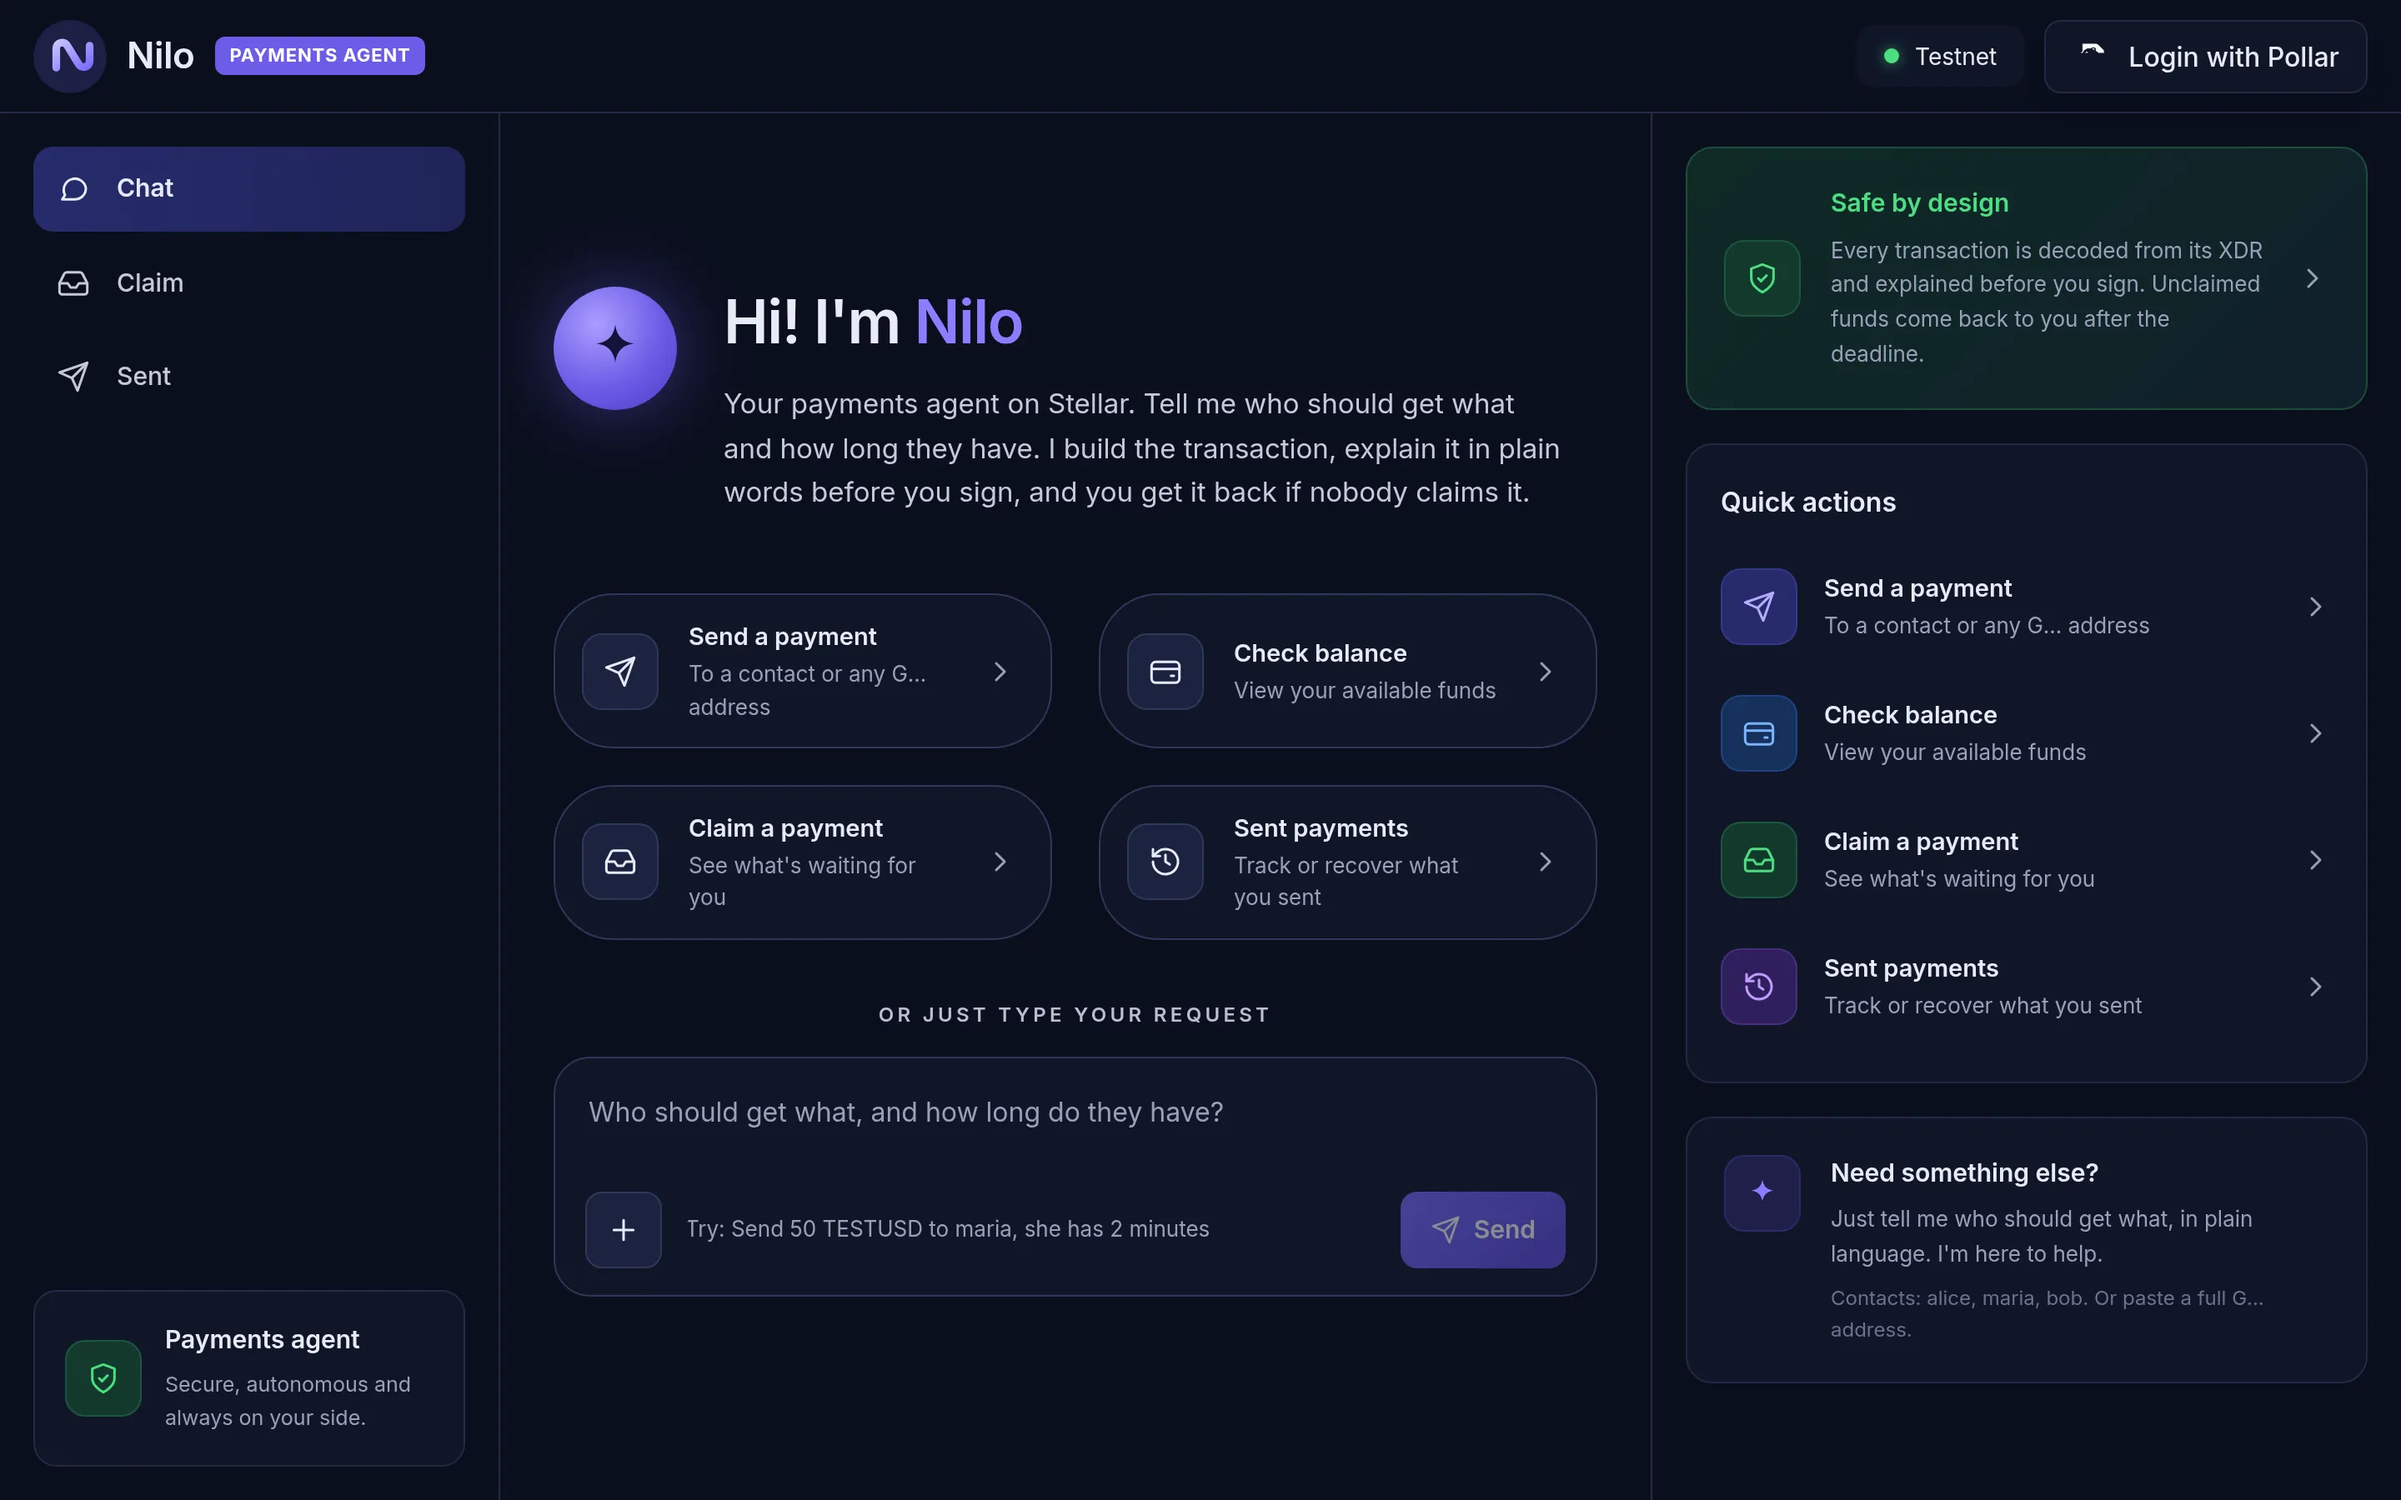
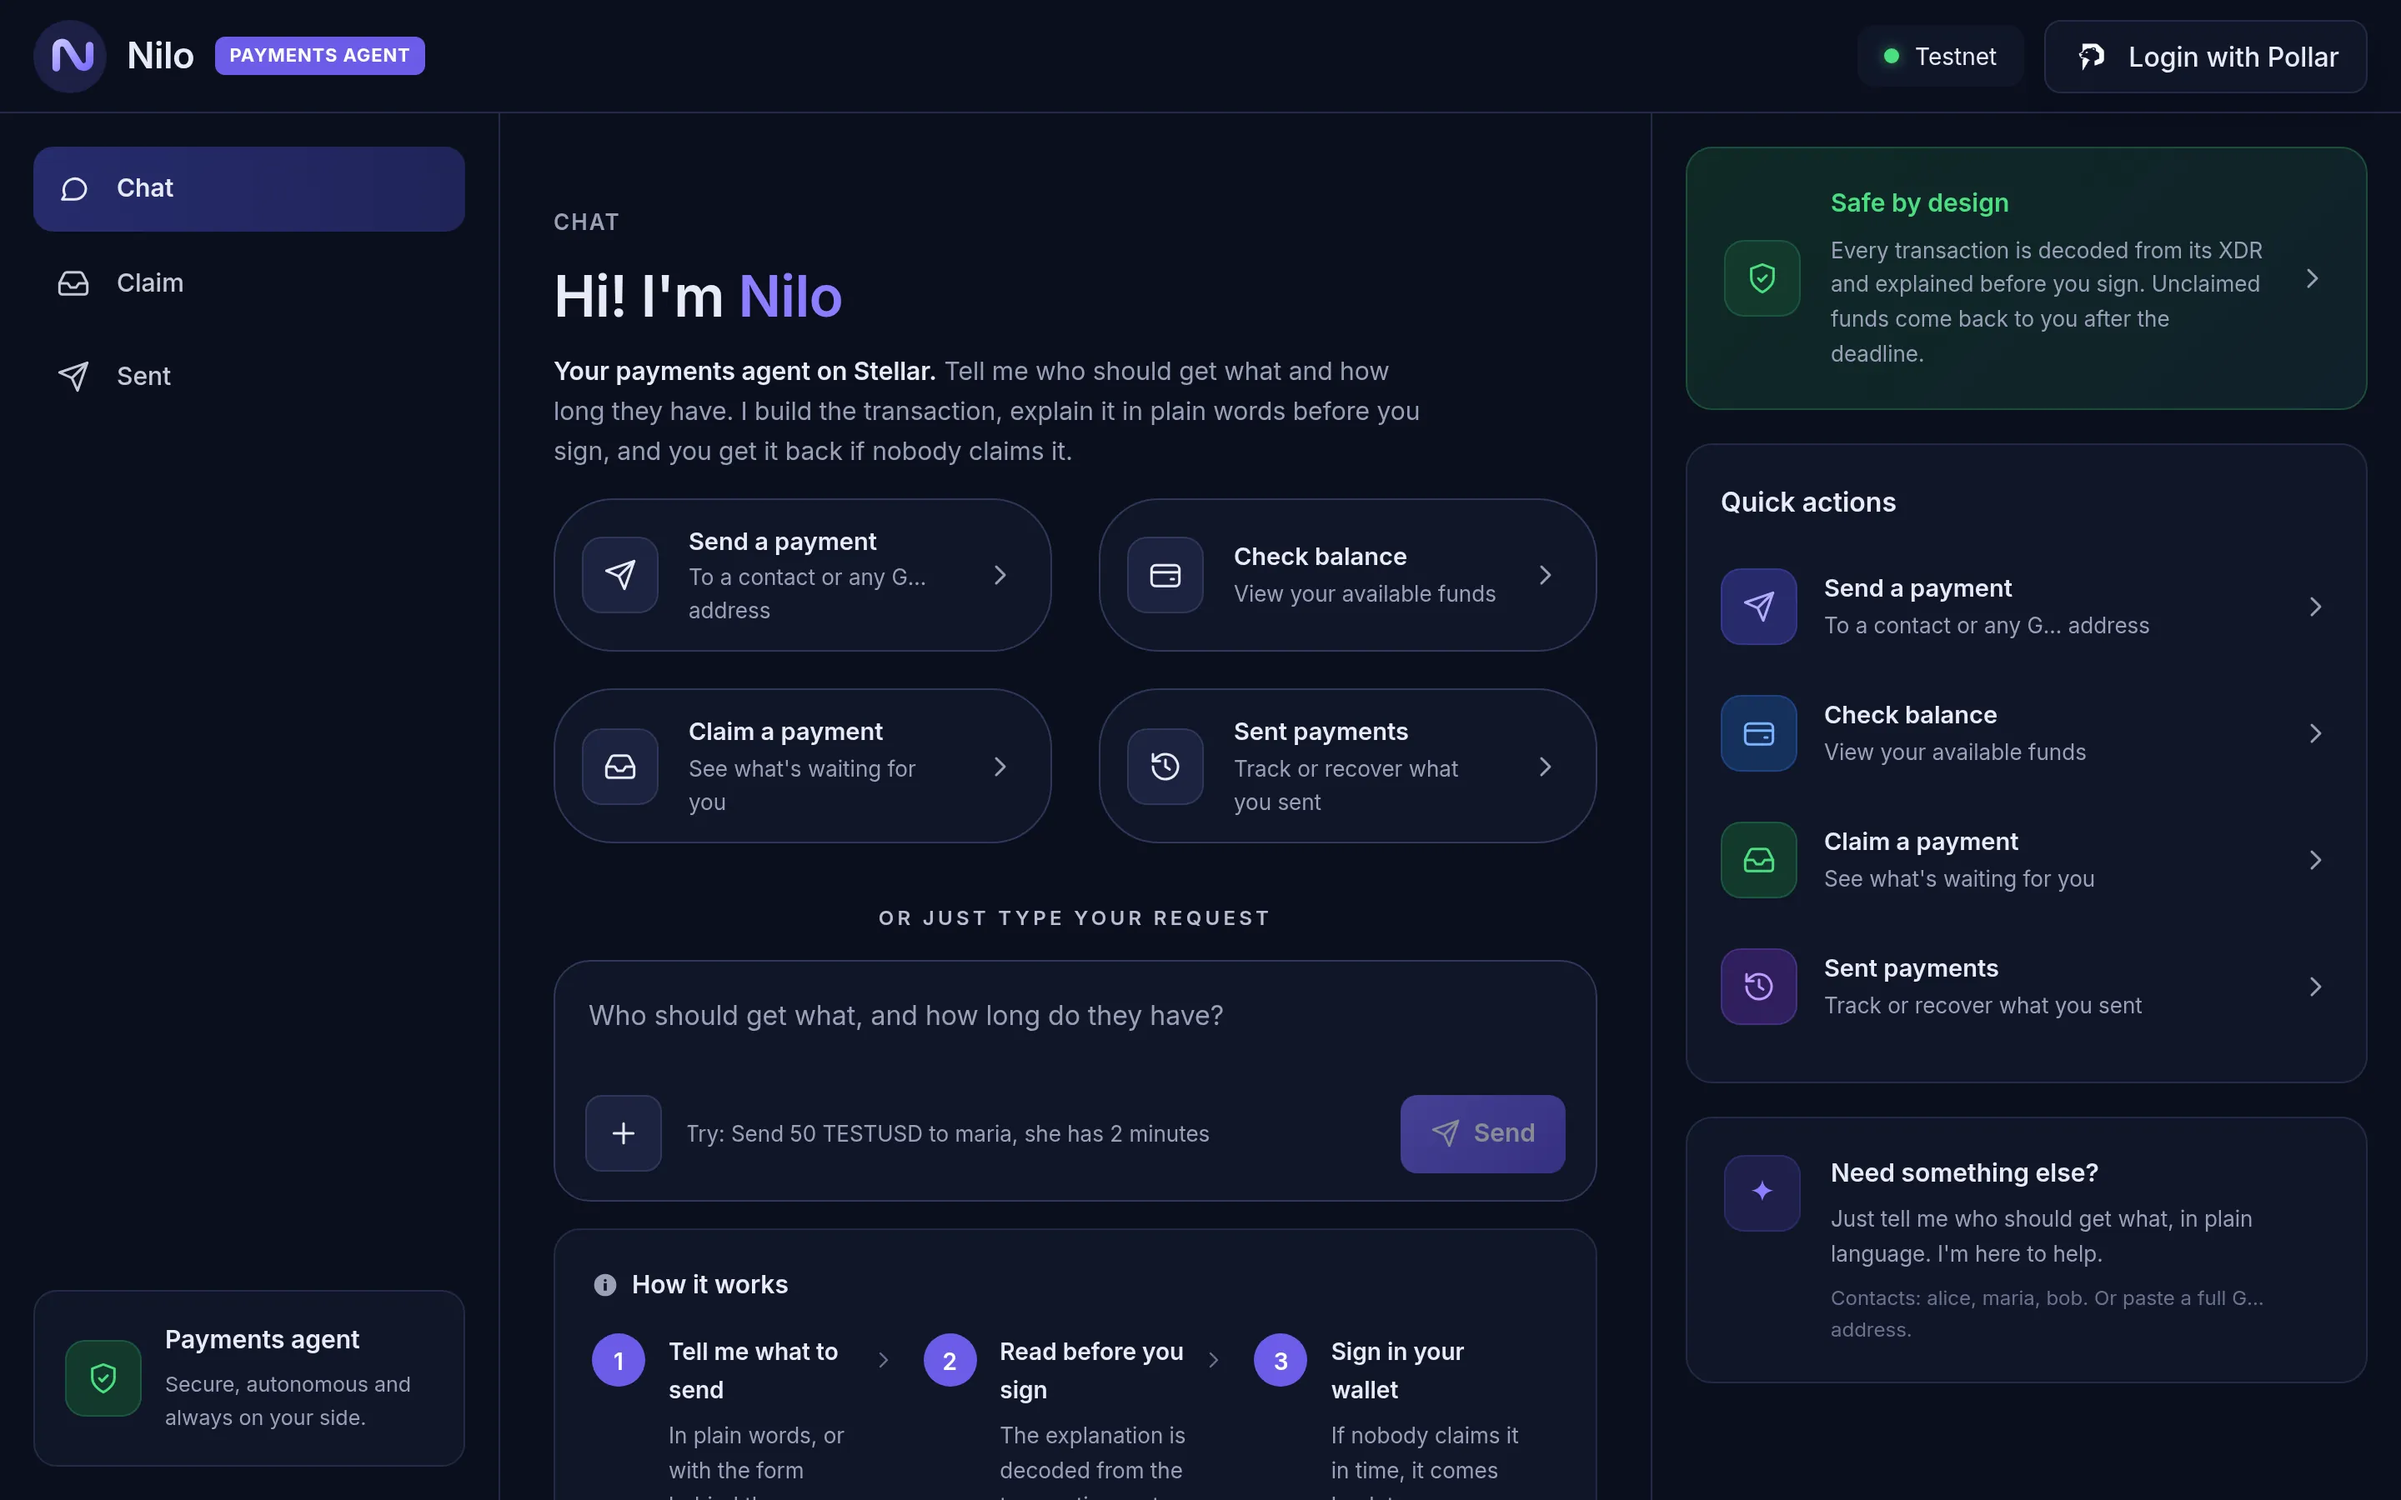
Restyle the Chat page like Claim and Sent
The hero avatar gives way to the shared page head (eyebrow, accented
title, bold lead line, Connected chip when a wallet is in), the column
widens to match, and a "How it works" strip shows before the first
message. README screenshots refreshed to match.

diff --git a/apps/web/src/pages/Send.tsx b/apps/web/src/pages/Send.tsx
@@ -7,11 +7,12 @@ import {
 } from "@nilo/core";
 import { type FormEvent, type KeyboardEvent, useEffect, useMemo, useRef, useState } from "react";
 import { Link, useLocation, useNavigate } from "react-router-dom";
-import { ChevronIcon, CloseIcon, PlusIcon, SendIcon, SparkleIcon } from "../components/icons";
+import { HowItWorks } from "../components/HowItWorks";
+import { ChevronIcon, CloseIcon, PlusIcon, SendIcon, WalletIcon } from "../components/icons";
 import { type ChatActionState, QUICK_ACTIONS, useQuickAction } from "../components/Layout";
 import { type Prepared, SignPanel } from "../components/SignPanel";
 import { asSnapshot, config, loadAccount } from "../stellar";
-import { formatLocal } from "../time";
+import { formatLocal, short } from "../time";
 import { useWallet } from "../wallet";
 
 interface ChatMessage {
@@ -25,6 +26,12 @@ type ExtractResponse =
   | { status: "error"; message: string };
 
 const EXAMPLE = "Send 50 TESTUSD to maria, she has 2 minutes";
+
+const STEPS = [
+  { title: "Tell me what to send", text: "In plain words, or with the form behind the + button." },
+  { title: "Read before you sign", text: "The explanation is decoded from the transaction, not written by the AI." },
+  { title: "Sign in your wallet", text: "If nobody claims it in time, it comes back to you." },
+];
 
 async function validateFresh(intent: SendIntent, address: string): Promise<ResolvedIntent> {
   const account = await loadAccount(address);
@@ -166,23 +173,28 @@ export function SendPage() {
   const fresh = messages.length === 0 && !pending;
 
   return (
-    <div className="stack chat-page">
+    <div className="stack chat-page page-wide">
       {fresh && (
         <>
-          <section className="hero">
-            <span className="hero-avatar">
-              <SparkleIcon width={34} height={34} />
-            </span>
-            <div>
-              <h1>
-                Hi! I'm <span className="accent">Nilo</span>
-              </h1>
-              <p>
-                Your payments agent on Stellar. Tell me who should get what and how long they have. I build the
-                transaction, explain it in plain words before you sign, and you get it back if nobody claims it.
-              </p>
-            </div>
-          </section>
+          <header className="page-head">
+            <span className="eyebrow">Chat</span>
+            <h1>
+              Hi! I'm <span className="accent-word">Nilo</span>
+            </h1>
+            <p className="muted">
+              <strong className="lead">Your payments agent on Stellar.</strong> Tell me who should get what and how long
+              they have. I build the transaction, explain it in plain words before you sign, and you get it back if
+              nobody claims it.
+            </p>
+            {address && (
+              <div className="row">
+                <span className="connected">
+                  <WalletIcon width={16} height={16} /> Connected
+                </span>
+                <span className="muted small">as {short(address)}</span>
+              </div>
+            )}
+          </header>
           <div className="action-grid">
             {QUICK_ACTIONS.map((a) => (
               <button key={a.title} className="action-card" onClick={() => runQuick(a)}>
@@ -256,6 +268,8 @@ export function SendPage() {
           <IntentForm disabled={!!pending} onSubmit={startReview} />
         </div>
       )}
+
+      {fresh && <HowItWorks steps={STEPS} />}
 
       {/* The rail lists contacts on wide screens; this copy shows when it is hidden. */}
       <p className="muted small contacts-inline">

diff --git a/apps/web/src/styles.css b/apps/web/src/styles.css
@@ -141,17 +141,8 @@ a.rail-card:hover { border-color: #2a6a50; }
 
 /* ---------- Chat page ---------- */
 .chat-page { gap: 28px; }
-.hero { display: flex; gap: 28px; align-items: flex-start; padding: 64px 0 32px; max-width: 610px; }
-.hero-avatar {
-  flex: none; width: 74px; height: 74px; border-radius: 50%; display: inline-flex; align-items: center; justify-content: center;
-  background: radial-gradient(circle at 35% 30%, #a99dff 0%, #6c5ce7 55%, #4a3bc4 100%); color: #12133a;
-  box-shadow: 0 0 40px rgba(108, 92, 231, 0.45);
-}
-.hero h1 { font-size: 36px; font-weight: 600; letter-spacing: -0.02em; line-height: 1.2; }
-.hero .accent { color: var(--accent-2); }
-.hero p { margin: 14px 0 0; color: #c6c9dc; font-size: 16.5px; line-height: 1.6; }
 
-.action-grid { display: grid; grid-template-columns: repeat(2, minmax(0, 1fr)); gap: 22px 28px; max-width: 745px; }
+.action-grid { display: grid; grid-template-columns: repeat(2, minmax(0, 1fr)); gap: 22px 28px; }
 .action-card {
   display: flex; align-items: center; gap: 18px; padding: 14px 20px 14px 16px; text-align: left;
   border-radius: 36px; border: 1px solid var(--border-strong); background: var(--surface);
@@ -255,12 +246,13 @@ input:focus, select:focus { outline: none; border-color: var(--accent); }
 /* ---------- Page head extras ---------- */
 .eyebrow { font-size: 13px; font-weight: 600; letter-spacing: 0.08em; text-transform: uppercase; color: var(--muted); }
 .page-head h1 { font-size: 34px; }
+.page-head .row { margin-top: 4px; }
 .accent-word { color: var(--accent-2); }
 .page-head .lead { color: var(--text); font-weight: 600; }
 .page-head p { line-height: 1.6; max-width: 520px; }
 
 /* ---------- Connected chip ---------- */
-button.connected {
+.connected {
   display: inline-flex; align-items: center; gap: 8px; padding: 6px 12px; border-radius: 10px; font-size: 13px;
   background: var(--ok-bg); border: 1px solid var(--ok-border); color: var(--ok);
 }
@@ -306,9 +298,6 @@ button.connected:disabled { opacity: 1; cursor: default; }
   .nav-item { flex: 1; justify-content: center; gap: 8px; padding: 10px; }
   .agent-card { display: none; }
   .content { padding: 20px 16px 48px; }
-  .hero { padding: 16px 0 8px; gap: 16px; flex-direction: column; }
-  .hero h1 { font-size: 28px; }
-  .hero-avatar { width: 56px; height: 56px; }
   .action-grid { grid-template-columns: minmax(0, 1fr); gap: 12px; }
   .composer-bar .link { display: none; }
   .page-head h1 { font-size: 28px; }
